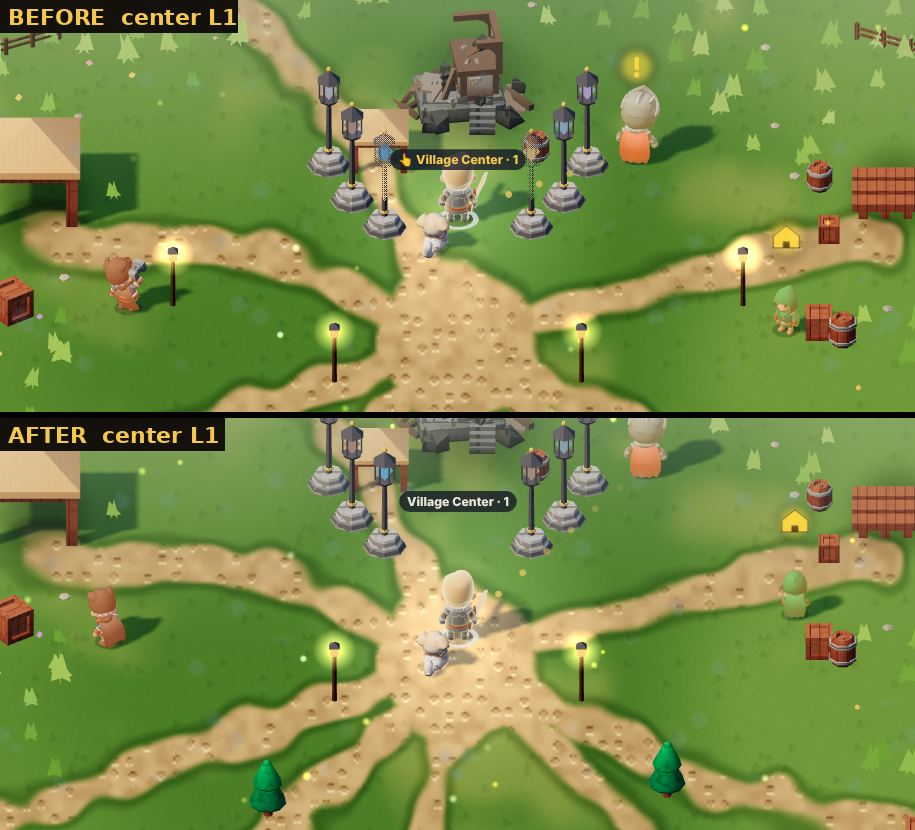
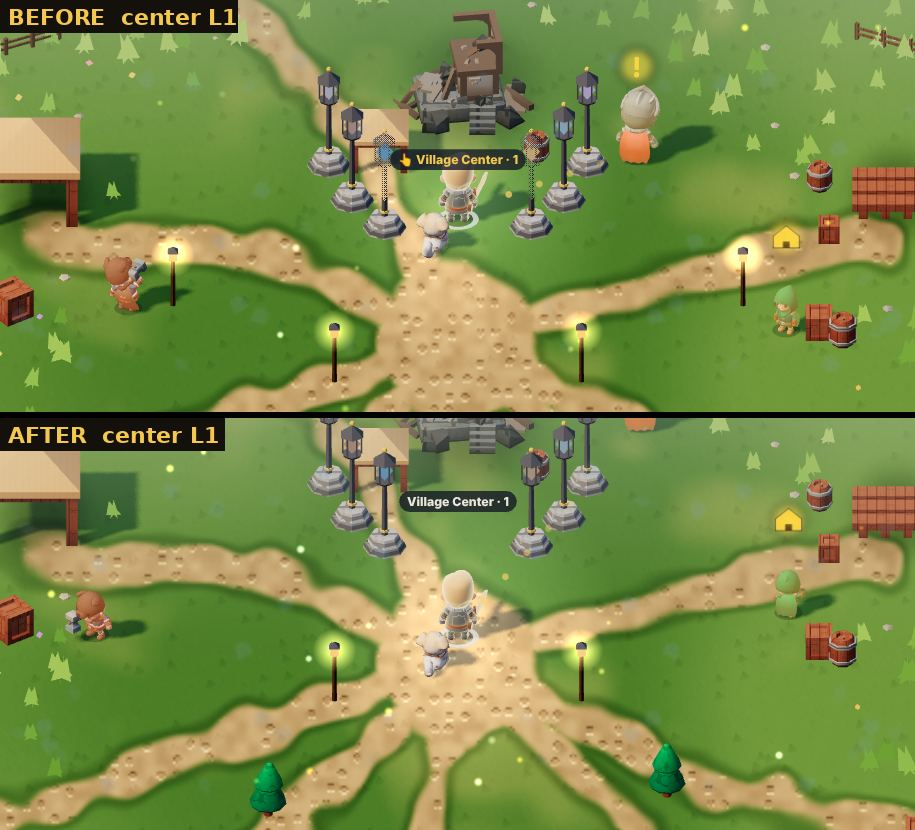
הכפר שגדל לא יושב על בתי התושבים: גבול מ-680, בתים וטחנה במקום פנוי, תושבים לא נכנסים לבתים, וגדר העץ בגודל נכון
Claude-Session: https://claude.ai/code/session_01ABMDoNB6gEVd7ZAZhzboo9

diff --git a/js/vgrowth.js b/js/vgrowth.js
@@ -6,24 +6,24 @@
    חיבור: VILLAGE.radius ו-VILLAGE.gate ב-village.js, at ב-VILLAGE.props (props3d.js), vgBlock ב-villageUpdate, plot ב-syncVillage (render3d.js).
    עוטף מבחוץ את syncVillage (בנייה מחדש כשהרמה מתחלפת, והתוספות) */
 const VGROW={
-  radius:[620,620,660,700,750,800],   // גבול הכפר לפי רמת המרכז (היה 700 קבוע). מבנים רחוקים עד 631 מהמרכז, אז לא פחות מ-620
+  radius:[680,680,690,700,750,800],   // גבול הכפר לפי רמת המרכז (היה 700 קבוע). לא פחות מ-680: הבית של המרפאה (residents.js) ב-625 מהמרכז
   // תוספות: m מודל, x/y מקום, w רוחב, at מאיזו רמה, to עד איזו רמה (כולל). r סיבוב. block: רדיוס שאי אפשר לעבור דרכו
   items:[
     // בתים: ירוק (עץ) ב-L2-3, כחול ב-L4, אדום ב-L5
-    {m:'vx_homeAG',x:-235,y:-440,w:80,at:2,to:3},{m:'vx_homeAB',x:-235,y:-440,w:84,at:4,to:4},{m:'vx_homeAR',x:-235,y:-440,w:88,at:5},
+    {m:'vx_homeAG',x:-150,y:-560,w:80,at:2,to:3},{m:'vx_homeAB',x:-150,y:-560,w:84,at:4,to:4},{m:'vx_homeAR',x:-150,y:-560,w:88,at:5},
     {m:'vx_homeAG',x:235,y:-440,w:80,at:3,to:3},{m:'vx_homeAB',x:235,y:-440,w:84,at:4,to:4},{m:'vx_homeAR',x:235,y:-440,w:88,at:5},
-    {m:'vx_homeAG',x:-210,y:560,w:80,at:3,to:3},{m:'vx_homeAB',x:-210,y:560,w:84,at:4},
-    {m:'vx_homeAG',x:200,y:560,w:80,at:3,to:4},{m:'vx_homeAR',x:200,y:560,w:88,at:5},
+    {m:'vx_homeAG',x:-370,y:520,w:80,at:3,to:3},{m:'vx_homeAB',x:-370,y:520,w:84,at:4},
+    {m:'vx_homeAG',x:370,y:520,w:80,at:3,to:4},{m:'vx_homeAR',x:370,y:520,w:88,at:5},
     {m:'vx_homeBB',x:-560,y:300,w:95,at:4},{m:'vx_homeBR',x:600,y:-100,w:95,at:5},{m:'vx_homeAB',x:-610,y:-110,w:85,at:5},
-    {m:'vx_homeAR',x:560,y:330,w:85,at:4},{m:'vx_homeAG',x:120,y:-600,w:80,at:5},
+    {m:'vx_homeAR',x:650,y:180,w:85,at:4},{m:'vx_homeAG',x:120,y:-600,w:80,at:5},
     // הכיכר: באר מ-L2, דוכנים מ-L3, מזרקה ב-L5 (נבנית בקוד, vgFountain)
     {m:'vx_well',x:-185,y:-150,w:52,at:2,block:24},
     {m:'v_tent',x:195,y:-150,w:58,at:3,r:-0.5,block:24},{m:'v_crate',x:235,y:-115,w:24,at:3},{m:'vx_sack',x:160,y:-110,w:20,at:3},
     {m:'v_tent',x:-200,y:20,w:58,at:4,r:0.5,block:24},{m:'v_barrel',x:-165,y:50,w:22,at:4},
     {m:'fountain',x:0,y:-80,w:96,at:5,block:52},
     // שדות, טחנה, כנסייה
-    {m:'vx_grain',x:-620,y:-300,w:110,at:4},{m:'vx_grain',x:640,y:-310,w:110,at:4},
-    {m:'vx_windmill',x:500,y:470,w:120,at:5,block:50},{m:'vx_church',x:-310,y:-570,w:115,at:5,block:50},
+    {m:'vx_grain',x:-600,y:-320,w:110,at:4},{m:'vx_grain',x:600,y:-330,w:110,at:4},
+    {m:'vx_windmill',x:620,y:290,w:120,at:5,block:50},{m:'vx_church',x:-470,y:-480,w:115,at:5,block:50},
     // דגלים לאורך הדרך מהשער
     {m:'vx_flagR',x:-55,y:300,w:40,at:5},{m:'vx_flagR',x:55,y:300,w:40,at:5},{m:'vx_flagR',x:-55,y:500,w:40,at:5},{m:'vx_flagR',x:55,y:500,w:40,at:5},
     {m:'v_flag',x:-60,y:620,w:42,at:3,to:4},{m:'v_flag',x:60,y:620,w:42,at:3,to:4}
@@ -43,6 +43,8 @@ function vgLv(){
 const vgOn=(it,L)=>L>=it.at&&(!it.to||L<=it.to);
 // לא נכנסים לבאר, לדוכן, למזרקה, לטחנה ולכנסייה (מ-villageUpdate)
 function vgBlock(P){const L=vgLv();for(const it of VGROW.items){if(!it.block||!vgOn(it,L)||!vgFree(it))continue;const dx=P.x-it.x,dy=P.y-it.y,d=Math.hypot(dx,dy)||1,min=it.block+P.r;if(d<min){P.x=it.x+dx/d*min;P.y=it.y+dy/d*min}}}
+// התושבים (npcFree ב-npc.js) לא עומדים ולא הולכים בתוך בית, באר או מזרקה של הרמה הנוכחית
+const vgHit=(x,y,r)=>{const L=vgLv();return VGROW.items.some(it=>vgOn(it,L)&&it.w>=40&&Math.hypot(x-it.x,y-it.y)<it.w/2+r)};
 // לחנות הקישוטים (deco.js): לא מעמידים קישוט על בית או באר
 // כל התוספות מכל הרמות, כדי שהמקומות לא ישתנו כשהכפר גדל
 const vgDots=near=>VGROW.items.map(it=>[it.x,it.y,it.w/2+near]);
@@ -65,13 +67,13 @@ function vgFountain(x,y,w,g){
 // טבעת של חתיכות זהות בציור אחד לכל חלק במודל
 function vgRing(spec,R,g){
   const t=R3D.props[spec.m];if(!t)return;
-  const bb=t.userData.bb||(t.userData.bb=new THREE.Box3().setFromObject(t)),s=spec.seg/Math.max(bb.max.x-bb.min.x,1e-3);
+  const bb=t.userData.bb||(t.userData.bb=new THREE.Box3().setFromObject(t)),ex=bb.max.x-bb.min.x,ez=bb.max.z-bb.min.z,s=spec.seg/Math.max(ex,ez,1e-3),turn=ez>ex?Math.PI/2:0;   // החלק הארוך לאורך הטבעת (הגדר של KayKit שוכבת לאורך z)
   const at=[],n=Math.round(2*Math.PI*R/spec.seg);
   for(let i=0;i<n;i++){const a=(i+0.5)/n*Math.PI*2;if(Math.abs(Math.atan2(Math.sin(a-Math.PI/2),Math.cos(a-Math.PI/2)))<spec.gap)continue;at.push(a)}
   t.updateMatrixWorld(true);const M=new THREE.Matrix4(),Q=new THREE.Quaternion(),Y=new THREE.Vector3(0,1,0);
   t.traverse(o=>{if(!o.isMesh)return;
     const im=new THREE.InstancedMesh(o.geometry,o.material,at.length);im.frustumCulled=false;
-    at.forEach((a,i)=>{const x=Math.cos(a)*R,y=Math.sin(a)*R,rot=Math.atan2(-Math.cos(a)/SIN(),-Math.sin(a));
+    at.forEach((a,i)=>{const x=Math.cos(a)*R,y=Math.sin(a)*R,rot=Math.atan2(-Math.cos(a)/SIN(),-Math.sin(a))+turn;
       Q.setFromAxisAngle(Y,rot);M.compose(new THREE.Vector3(x,-bb.min.y*s,y/SIN()),Q,new THREE.Vector3(s,s,s)).multiply(o.matrixWorld);im.setMatrixAt(i,M)});
     g.add(im)});
 }

diff --git a/js/npc.js b/js/npc.js
@@ -45,6 +45,7 @@ function npcFree(x,y){
   const g=VILLAGE.gate,top=VILLAGE.b.center.y;
   if(Math.abs(x-g.x)<NPC.road&&y>top&&y<g.y+g.r)return false;
   for(const k in VILLAGE.b){const B=VILLAGE.b[k];if(Math.hypot(x-B.x,y-B.y)<B.r+NPC.r+6)return false}
+  if(typeof vgHit==='function'&&vgHit(x,y,NPC.r))return false;   // בתים, באר ומזרקה של הכפר שגדל (vgrowth.js)
   return Math.hypot(x,y)<VILLAGE.radius-NPC.r;
 }
 function npcPick(n){
